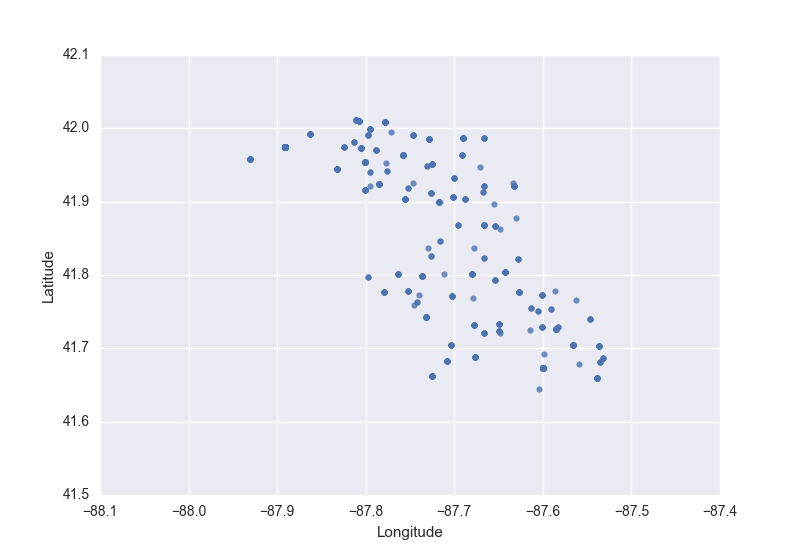
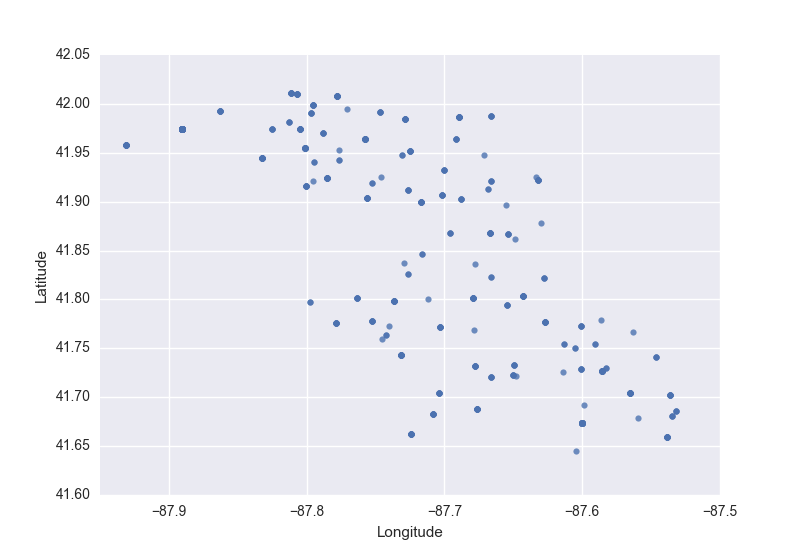
Some more work on trying to get the nearest station weather table combination to work

diff --git a/WestNile/Visualization.py b/WestNile/Visualization.py
@@ -5,8 +5,10 @@ from sklearn import metrics
 from sklearn.cross_validation import KFold
 from sklearn.preprocessing import StandardScaler, LabelEncoder
 from sklearn.ensemble import RandomForestClassifier
+from sklearn.gaussian_process import GaussianProcess
 import matplotlib as plt
 import seaborn as sns
+import math
 
 
 # Load dataset
@@ -14,19 +16,21 @@ X_train = pd.read_csv('input/train.csv')
 X_test = pd.read_csv('input/test.csv')
 sample = pd.read_csv('input/sampleSubmission.csv')
 weather = pd.read_csv('input/weather.csv')
+spray = pd.read_csv('input/spray.csv')
 
-# Get labels
-labels = X_train.WnvPresent.values
-
-# Not using codesum for this benchmark
+y_train = X_train.WnvPresent.values
 weather = weather.drop('CodeSum', axis=1)
 
 # Split station 1 and 2 and join horizontally
 weather_stn1 = weather[weather['Station']==1]
 weather_stn2 = weather[weather['Station']==2]
-weather_stn1 = weather_stn1.drop('Station', axis=1)
-weather_stn2 = weather_stn2.drop('Station', axis=1)
-weather = weather_stn1.merge(weather_stn2, on='Date')
+#weather_stn1 = weather_stn1.drop('Station', axis=1)
+weather_stn1.loc[:,'Latitude'] = 41.995
+weather_stn1.loc[:,'Longitude'] = -87.933
+weather_stn2.loc[:,'Latitude'] = 41.786
+weather_stn2.loc[:,'Longitude'] = -87.752
+#weather_stn2 = weather_stn2.drop('Station', axis=1)
+weather = weather_stn1.merge(weather_stn2)
 
 # replace some missing values and T with -1
 weather = weather.replace('M', -1)
@@ -56,15 +60,57 @@ X_test['Long_int'] = X_test.Longitude.apply(int)
 
 X_true = X_train[X_train.WnvPresent == 1]
 plot = sns.regplot('Longitude', 'Latitude', X_true, fit_reg=False)
+plot.set_ylim(41.6,42.05)
+plot.set_xlim(-87.95,-87.5)
 fig = plot.get_figure()
 fig.savefig('scatter1.png')
 
 # drop address columns
-X_train = X_train.drop(['Address', 'AddressNumberAndStreet', 'WnvPresent', 'NumMosquitos'], axis = 1)
+X_train = X_train.drop(['Address', 'AddressNumberAndStreet', 'WnvPresent'], axis = 1)
 X_test = X_test.drop(['Id', 'Address', 'AddressNumberAndStreet'], axis = 1)
 
+def merge_closest(DF1, DF2, div_col, div2_val, div3_val, on_col, x_col, y_col):
+    #matrix1 = DF1.values
+    #matrix2 = DF2.values
+    tempDF = pd.DataFrame(data=None, columns=DF2.columns, index=DF2.index)
+    i=0
+    for index,row in DF1.iterrows():
+        df1_date = row[on_col]
+        df2_row = DF2[(DF2[on_col]==df1_date) & (DF2[div_col]==div2_val)]
+        df3_row = DF2[(DF2[on_col]==df1_date) & (DF2[div_col]==div3_val)]
+        print df2_row
+        df1_x=row[x_col]
+        df1_y=row[y_col]
+        df2_x=df2_row[x_col]
+        df2_y=df2_row[y_col]
+        df3_x=df3_row[x_col]
+        df3_y=df3_row[y_col]
+        df2_dist=math.hypot(df2_x-df1_x, df2_y-df1_y)
+        df3_dist=math.hypot(df3_x-df1_x, df3_y-df1_y)
+        #if i<5:
+        #    print "DF2: " + str(df2_dist) + " DF3: " +str(df3_dist)
+        #    i+=1
+        print type(df2_row)
+        if df2_dist<=df3_dist:
+            tempDF=tempDF[DF2[on_col]!=df1_date & DF2[div_col]!=div3_val]
+        else:
+            tempDF.loc[i]=DF2[on_col]!=df1_date & DF2[div_col]!=div2_val
+        i+=1
+    print tempDF.head(5)
+
+
 # Merge with weather data
+merge_closest(X_train, weather, div_col='Station', div2_val=1, div3_val=2,on_col='Date', x_col='Latitude', y_col='Longitude')
 X_train = X_train.merge(weather, on='Date')
 X_test = X_test.merge(weather, on='Date')
 X_train = X_train.drop(['Date'], axis = 1)
 X_test = X_test.drop(['Date'], axis = 1)
+
+#gp = GaussianProcess(regr='constant')
+#gp.fit(X_train, y_train)
+#y_pred = gp.predict(X_test)
+
+#predictions = gp.predict(X_test)[:,1]
+#sample['WnvPresent'] = predictions
+#sample.to_csv('firstGP.csv', index=False)
+
